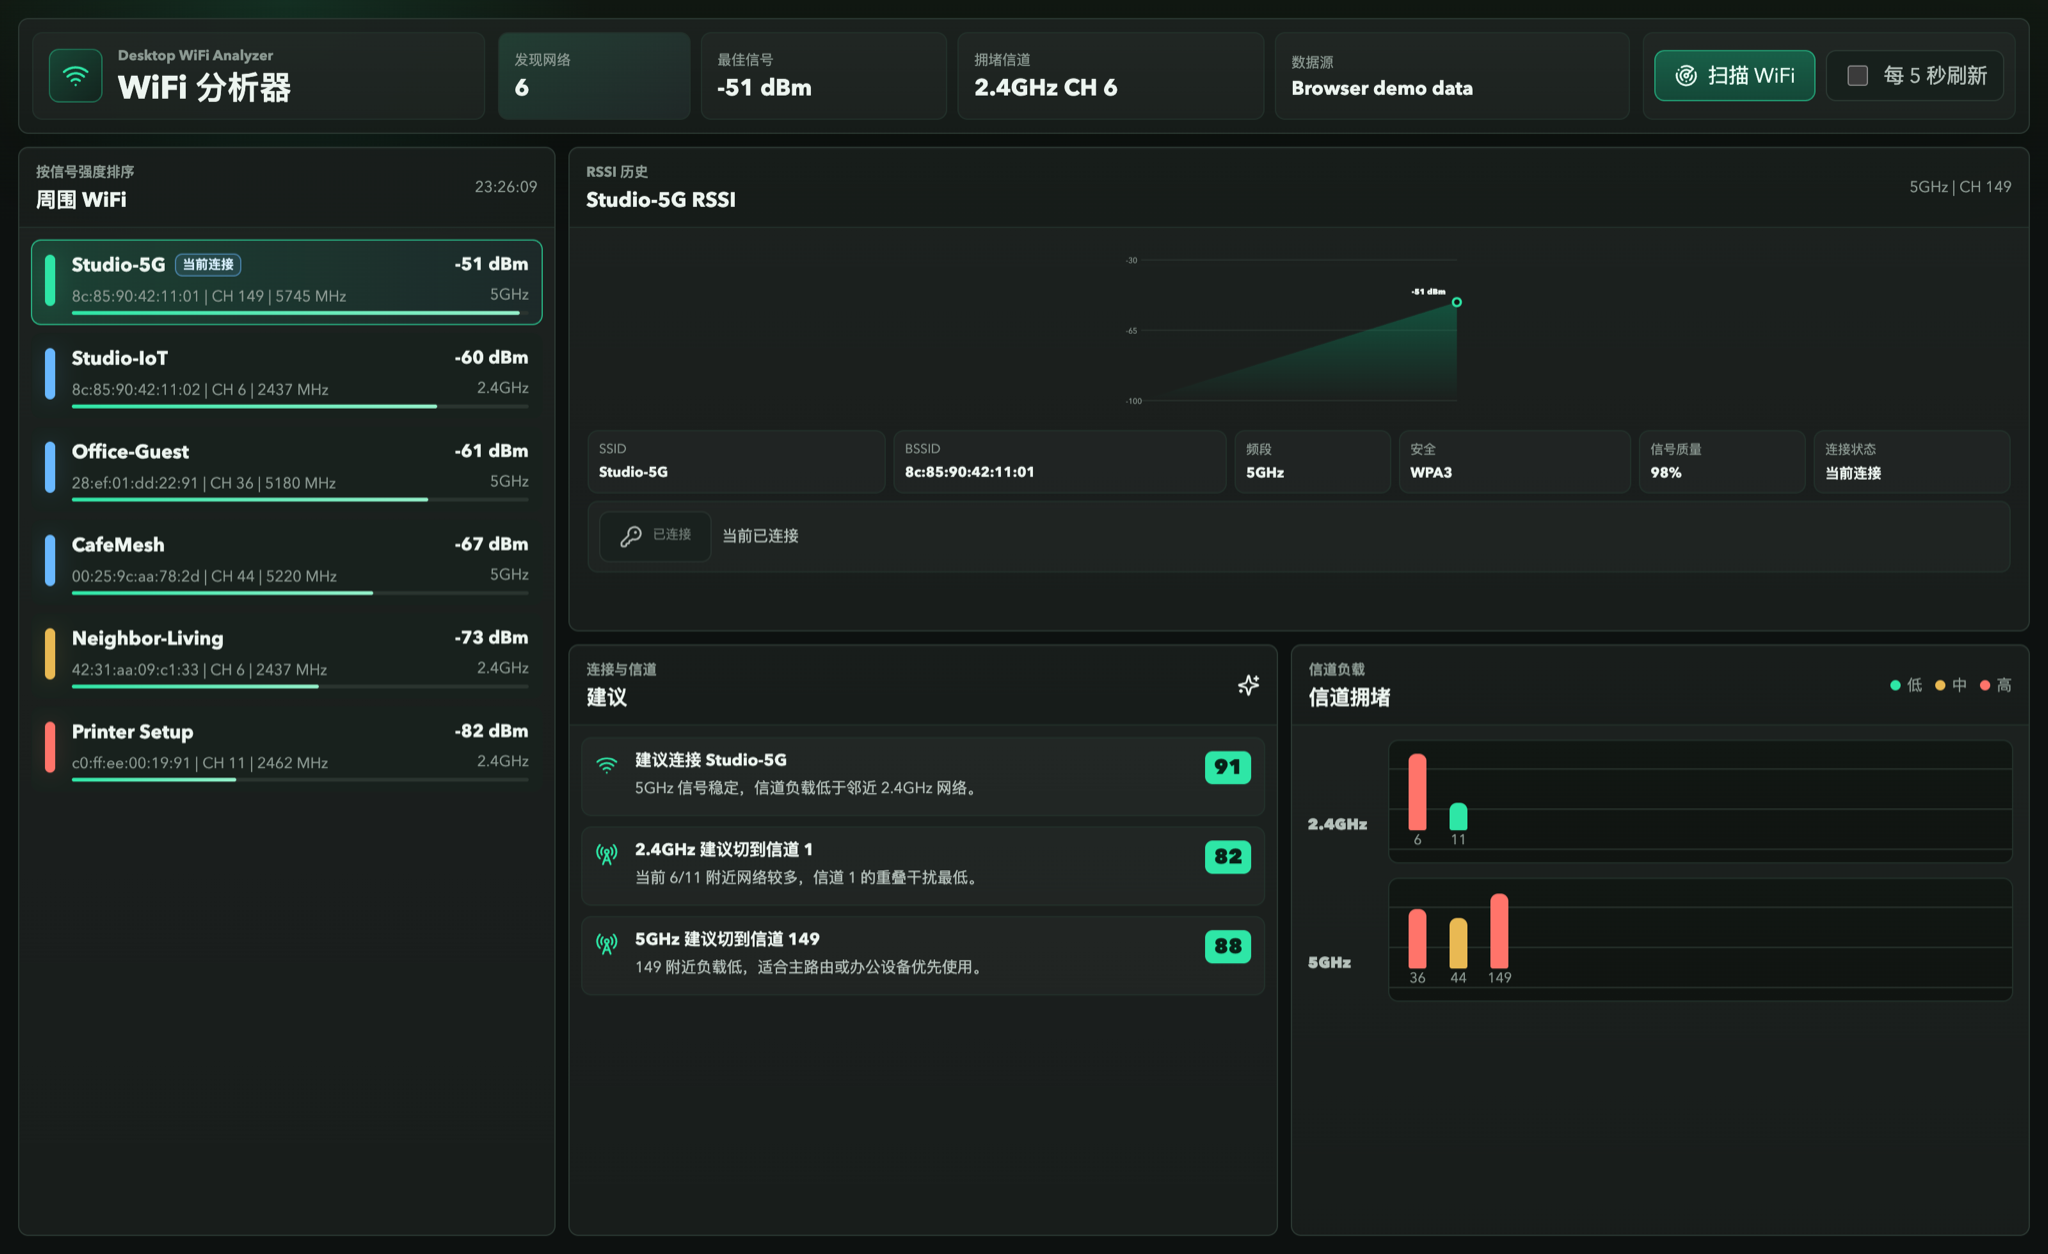
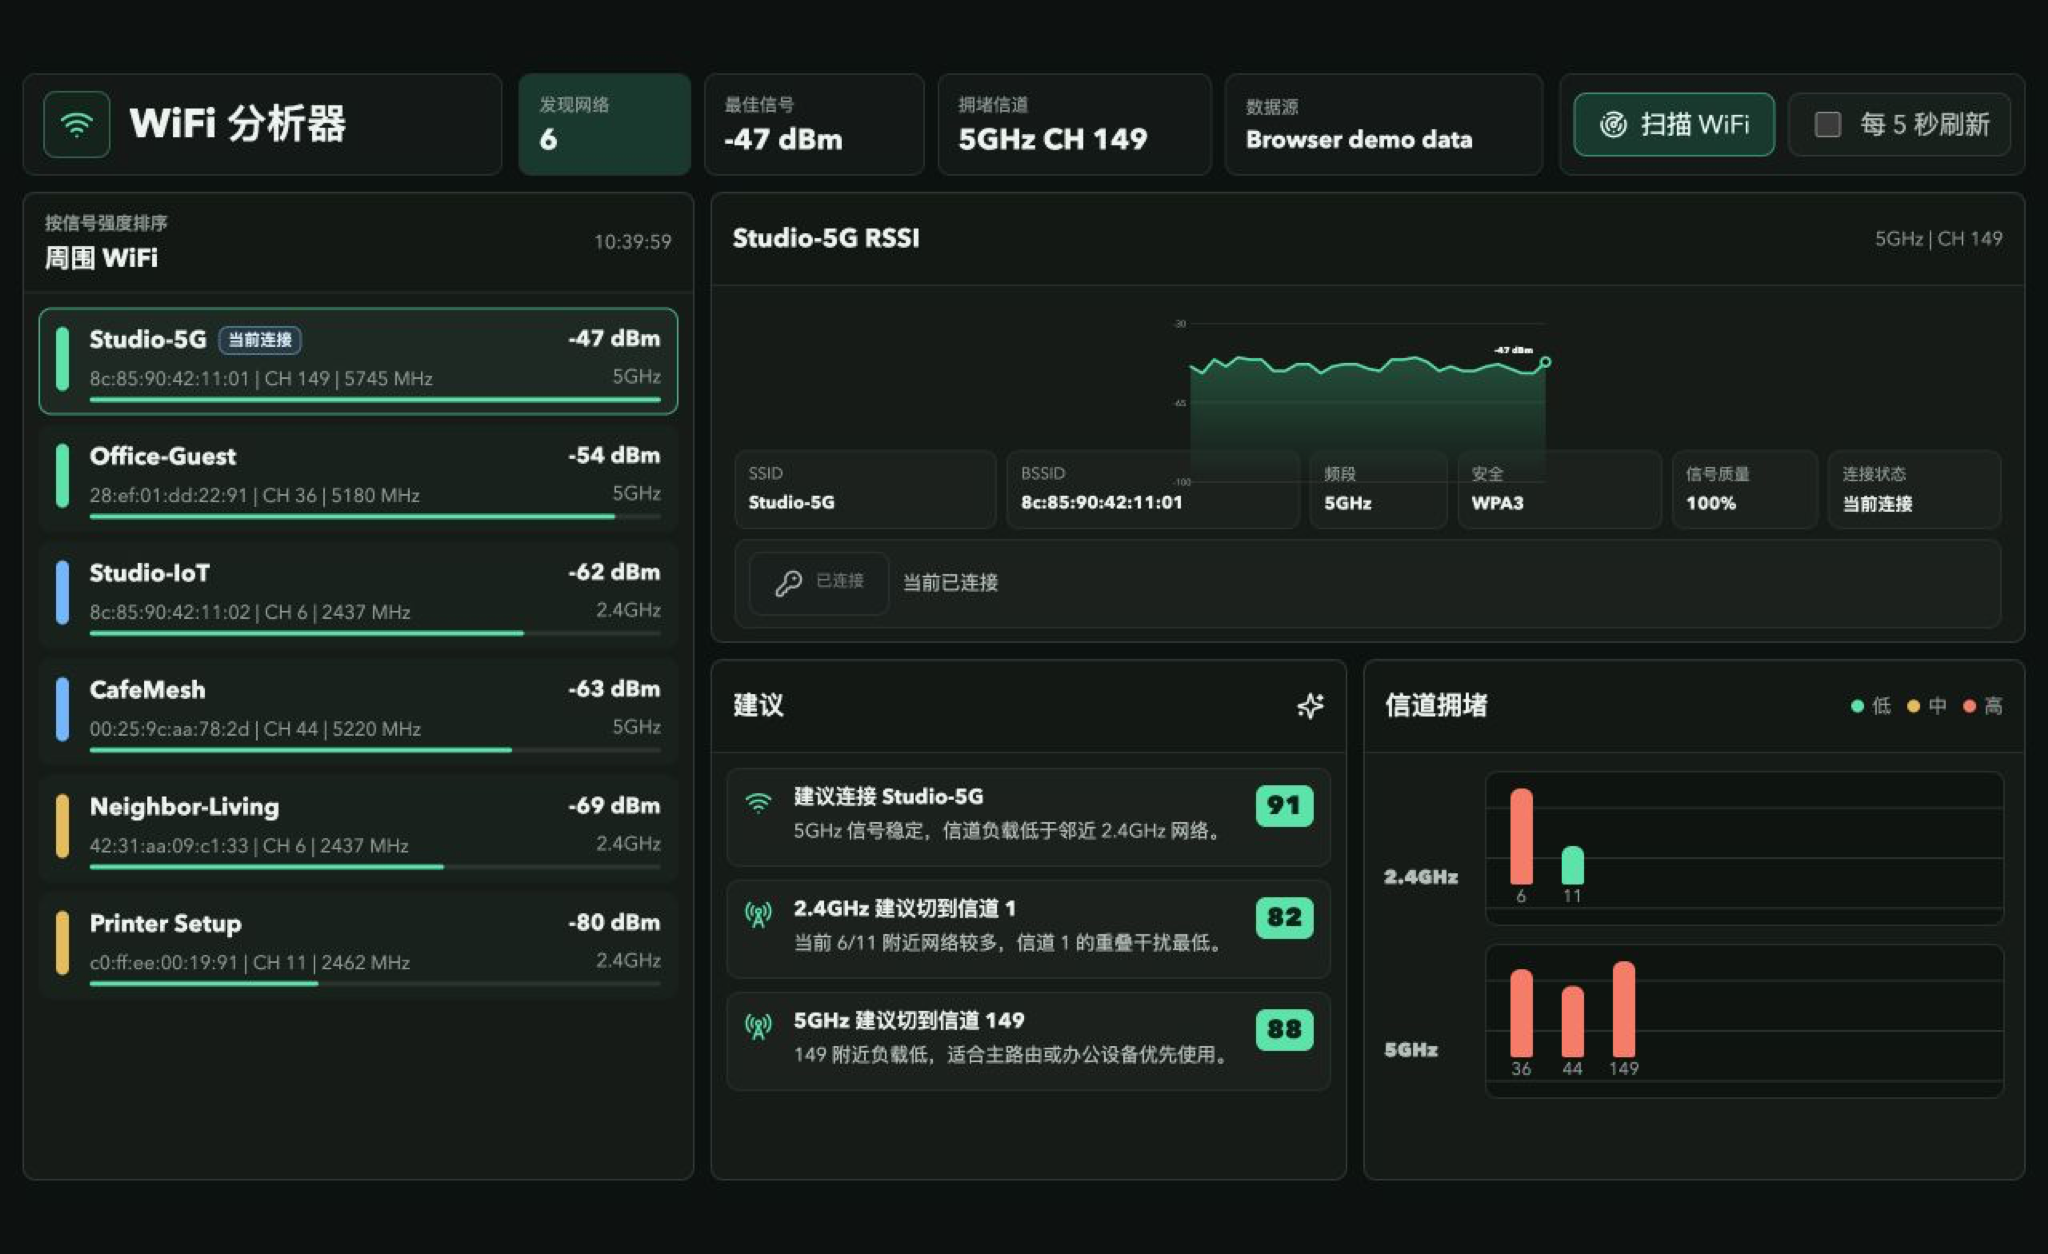
Release v0.1.5

diff --git a/src/styles.css b/src/styles.css
@@ -19,7 +19,6 @@
   --amber: #e9b953;
   --red: #ff746a;
   --blue: #69b8ff;
-  --shadow: 0 22px 80px rgb(0 0 0 / 0.32);
   --radius: 8px;
   --gap: 10px;
 }
@@ -34,10 +33,7 @@ body {
   min-height: 100dvh;
   overflow: hidden;
   color: var(--text);
-  background:
-    radial-gradient(circle at 14% 0%, rgb(46 230 166 / 0.12), transparent 30rem),
-    linear-gradient(180deg, #111912 0, #0d1110 22rem),
-    var(--bg);
+  background: var(--bg);
 }
 
 button,
@@ -63,13 +59,7 @@ button {
   align-items: stretch;
   gap: var(--gap);
   margin-bottom: var(--gap);
-  padding: 10px;
-  border: 1px solid var(--line);
-  border-radius: var(--radius);
-  background:
-    linear-gradient(180deg, rgb(255 255 255 / 0.045), rgb(255 255 255 / 0.018)),
-    rgb(17 23 20 / 0.92);
-  box-shadow: var(--shadow);
+  padding: 0;
 }
 
 .topbar,
@@ -104,9 +94,7 @@ button {
   border: 1px solid rgb(46 230 166 / 0.34);
   border-radius: var(--radius);
   color: var(--accent);
-  background:
-    linear-gradient(140deg, rgb(46 230 166 / 0.18), transparent),
-    #13231d;
+  background: #13231d;
 }
 
 .app-icon svg {
@@ -114,7 +102,6 @@ button {
   height: 22px;
 }
 
-.kicker,
 .panel-label {
   margin: 0 0 5px;
   color: var(--muted);
@@ -175,9 +162,7 @@ h2 {
 .button.primary {
   border-color: rgb(46 230 166 / 0.52);
   color: #eafff5;
-  background:
-    linear-gradient(180deg, rgb(46 230 166 / 0.22), rgb(46 230 166 / 0.08)),
-    var(--accent-deep);
+  background: var(--accent-deep);
 }
 
 .button:hover {
@@ -266,9 +251,7 @@ h2 {
 }
 
 .metric-strong {
-  background:
-    linear-gradient(145deg, rgb(46 230 166 / 0.12), rgb(105 184 255 / 0.035)),
-    rgb(255 255 255 / 0.026);
+  background: var(--accent-deep);
 }
 
 .metric span {
@@ -322,9 +305,7 @@ h2 {
   overflow: hidden;
   border: 1px solid var(--line);
   border-radius: var(--radius);
-  background:
-    linear-gradient(180deg, rgb(255 255 255 / 0.035), rgb(255 255 255 / 0.012)),
-    rgb(21 27 24 / 0.94);
+  background: var(--panel);
   box-shadow: 0 1px 0 rgb(255 255 255 / 0.035) inset;
 }
 
@@ -396,23 +377,17 @@ h2 {
 
 .network-row.selected {
   border-color: rgb(46 230 166 / 0.64);
-  background:
-    linear-gradient(90deg, rgb(46 230 166 / 0.14), rgb(46 230 166 / 0.035)),
-    var(--panel-soft);
+  background: var(--panel-hover);
 }
 
 .network-row.connected {
   border-color: rgb(105 184 255 / 0.44);
-  background:
-    linear-gradient(90deg, rgb(105 184 255 / 0.11), transparent),
-    var(--panel-soft);
+  background: var(--panel-soft);
 }
 
 .network-row.connected.selected {
   border-color: rgb(46 230 166 / 0.7);
-  background:
-    linear-gradient(90deg, rgb(46 230 166 / 0.16), rgb(105 184 255 / 0.055)),
-    var(--panel-soft);
+  background: var(--panel-hover);
 }
 
 .signal-mark {
@@ -421,22 +396,18 @@ h2 {
   margin-top: 2px;
   border-radius: 99px;
   background: var(--red);
-  box-shadow: 0 0 18px rgb(255 116 106 / 0.22);
 }
 
 .signal-mark.excellent {
   background: var(--accent);
-  box-shadow: 0 0 18px rgb(46 230 166 / 0.24);
 }
 
 .signal-mark.good {
   background: var(--blue);
-  box-shadow: 0 0 18px rgb(105 184 255 / 0.22);
 }
 
 .signal-mark.fair {
   background: var(--amber);
-  box-shadow: 0 0 18px rgb(233 185 83 / 0.2);
 }
 
 .network-main,
@@ -510,7 +481,7 @@ h2 {
   display: block;
   height: 100%;
   border-radius: inherit;
-  background: linear-gradient(90deg, var(--accent), #95f0ca);
+  background: var(--accent);
 }
 
 .recommendations {
@@ -635,9 +606,10 @@ h2 {
   padding: 10px 10px 7px;
   border: 1px solid var(--line-soft);
   border-radius: var(--radius);
-  background:
-    linear-gradient(#2a352f 1px, transparent 1px) 0 34% / 100% 33%,
-    linear-gradient(180deg, #111713, #101411);
+  background-color: #101411;
+  background-image: linear-gradient(#2a352f 1px, transparent 1px);
+  background-position: 0 34%;
+  background-size: 100% 33%;
 }
 
 .channel-item {
@@ -812,7 +784,6 @@ h2 {
   place-items: center;
   padding: 18px;
   background: rgb(0 0 0 / 0.58);
-  backdrop-filter: blur(8px);
 }
 
 .connect-modal {
@@ -821,10 +792,8 @@ h2 {
   border: 1px solid var(--line);
   border-radius: var(--radius);
   color: var(--text);
-  background:
-    linear-gradient(180deg, rgb(255 255 255 / 0.04), rgb(255 255 255 / 0.018)),
-    #121916;
-  box-shadow: 0 24px 80px rgb(0 0 0 / 0.46);
+  background: #121916;
+  box-shadow: 0 2px 8px rgb(0 0 0 / 0.32), 0 16px 32px -18px rgb(0 0 0 / 0.5);
 }
 
 .modal-head {

diff --git a/site/index.html b/site/index.html
@@ -269,14 +269,6 @@ a:hover { color: var(--brand-light); }
 
 section { margin-bottom: 72px; }
 .section-head { margin-bottom: 24px; }
-.section-num {
-  font-family: var(--latin-ui);
-  font-weight: 400;
-  font-size: 14px;
-  color: var(--brand);
-  letter-spacing: 0.4px;
-  margin: 0 0 6px;
-}
 .section-title {
   font-family: var(--serif);
   font-weight: 500;
@@ -915,7 +907,7 @@ footer.foot {
   <!-- ============ Hero ============ -->
   <header class="hero">
     <div class="eyebrow">
-      <span>桌面端 WiFi 信号分析器 · <a class="version-link" href="https://github.com/FelixLyfe/wifi-analyzer/releases">v0.1.4</a></span>
+      <span>桌面端 WiFi 信号分析器 · <a class="version-link" href="https://github.com/FelixLyfe/wifi-analyzer/releases">v0.1.5</a></span>
       <span class="hero-links">
         <a href="https://github.com/FelixLyfe/wifi-analyzer" target="_blank" rel="noopener">GitHub</a>
       </span>
@@ -938,10 +930,9 @@ footer.foot {
     </div>
   </header>
 
-  <!-- ============ 00 · Gallery ============ -->
+  <!-- ============ Gallery ============ -->
   <section>
     <div class="section-head">
-      <p class="section-num">00 · 实景</p>
       <h2 class="section-title">一屏看清你的无线环境</h2>
       <p class="section-lede">截图来自应用内置 Demo 模式的真实渲染——下载后你看到的就是这个界面。</p>
     </div>
@@ -959,10 +950,9 @@ footer.foot {
     </div>
   </section>
 
-  <!-- ============ 01 · Features ============ -->
+  <!-- ============ Features ============ -->
   <section>
     <div class="section-head">
-      <p class="section-num">01 · 功能</p>
       <h2 class="section-title">六件事，把无线环境讲清楚</h2>
     </div>
 
@@ -994,10 +984,9 @@ footer.foot {
     </ol>
   </section>
 
-  <!-- ============ 02 · Principles ============ -->
+  <!-- ============ Principles ============ -->
   <section>
     <div class="section-head">
-      <p class="section-num">02 · 原则</p>
       <h2 class="section-title">五条底线，写在代码里</h2>
     </div>
 
@@ -1040,10 +1029,9 @@ footer.foot {
     </ol>
   </section>
 
-  <!-- ============ 03 · Pricing ============ -->
+  <!-- ============ Pricing ============ -->
   <section>
     <div class="section-head">
-      <p class="section-num">03 · 价格</p>
       <h2 class="section-title">免费，而且不带星号</h2>
     </div>
 
@@ -1056,10 +1044,9 @@ footer.foot {
     </div>
   </section>
 
-  <!-- ============ 04 · FAQ ============ -->
+  <!-- ============ FAQ ============ -->
   <section>
     <div class="section-head">
-      <p class="section-num">04 · 常见问题</p>
       <h2 class="section-title">下载之前，你大概想问</h2>
     </div>
 

diff --git a/src/render.ts b/src/render.ts
@@ -30,7 +30,6 @@ export function mountShell(root: HTMLElement): void {
           <div class="app-lockup">
             <span class="app-icon" aria-hidden="true"><i data-lucide="wifi"></i></span>
             <div>
-              <p class="kicker">Desktop WiFi Analyzer</p>
               <h1>WiFi 分析器</h1>
             </div>
           </div>
@@ -83,7 +82,6 @@ export function mountShell(root: HTMLElement): void {
           <section class="panel curve-panel">
             <div class="panel-head">
               <div>
-                <p class="panel-label">RSSI 历史</p>
                 <h2 id="curveTitle">RSSI 曲线</h2>
               </div>
               <span id="curveMeta" class="stamp">选择一个网络</span>
@@ -96,7 +94,6 @@ export function mountShell(root: HTMLElement): void {
             <div class="panel recommendation-panel">
               <div class="panel-head">
                 <div>
-                  <p class="panel-label">连接与信道</p>
                   <h2>建议</h2>
                 </div>
                 <i data-lucide="sparkles"></i>
@@ -107,7 +104,6 @@ export function mountShell(root: HTMLElement): void {
             <div class="panel congestion-panel">
               <div class="panel-head">
                 <div>
-                  <p class="panel-label">信道负载</p>
                   <h2>信道拥堵</h2>
                 </div>
                 <div class="legend">
@@ -127,6 +123,8 @@ export function mountShell(root: HTMLElement): void {
 }
 
 export function render(state: AppState, handlers: RenderHandlers): void {
+  syncAutoScanInput(mustGet<HTMLInputElement>("autoScan"), state.autoScan);
+
   const scanBtn = mustGet<HTMLButtonElement>("scanBtn");
   scanBtn.disabled = state.busy || state.connectingBssid !== undefined;
   scanBtn.classList.toggle("loading", state.busy);
@@ -151,6 +149,10 @@ export function render(state: AppState, handlers: RenderHandlers): void {
   renderConnectDialog(state, handlers);
 
   createIcons({ icons: { KeyRound, Radar, RadioTower, Sparkles, Wifi, X } });
+}
+
+export function syncAutoScanInput(input: Pick<HTMLInputElement, "checked">, autoScan: boolean): void {
+  input.checked = autoScan;
 }
 
 function renderNetworks(state: AppState, networks: WifiNetwork[], handlers: RenderHandlers): void {

diff --git a/src/render.test.ts b/src/render.test.ts
@@ -1,0 +1,14 @@
+import { describe, expect, it } from "vitest";
+import { syncAutoScanInput } from "./render";
+
+describe("syncAutoScanInput", () => {
+  it("reflects the auto-scan state in the checkbox", () => {
+    const input = { checked: false };
+
+    syncAutoScanInput(input, true);
+    expect(input.checked).toBe(true);
+
+    syncAutoScanInput(input, false);
+    expect(input.checked).toBe(false);
+  });
+});
